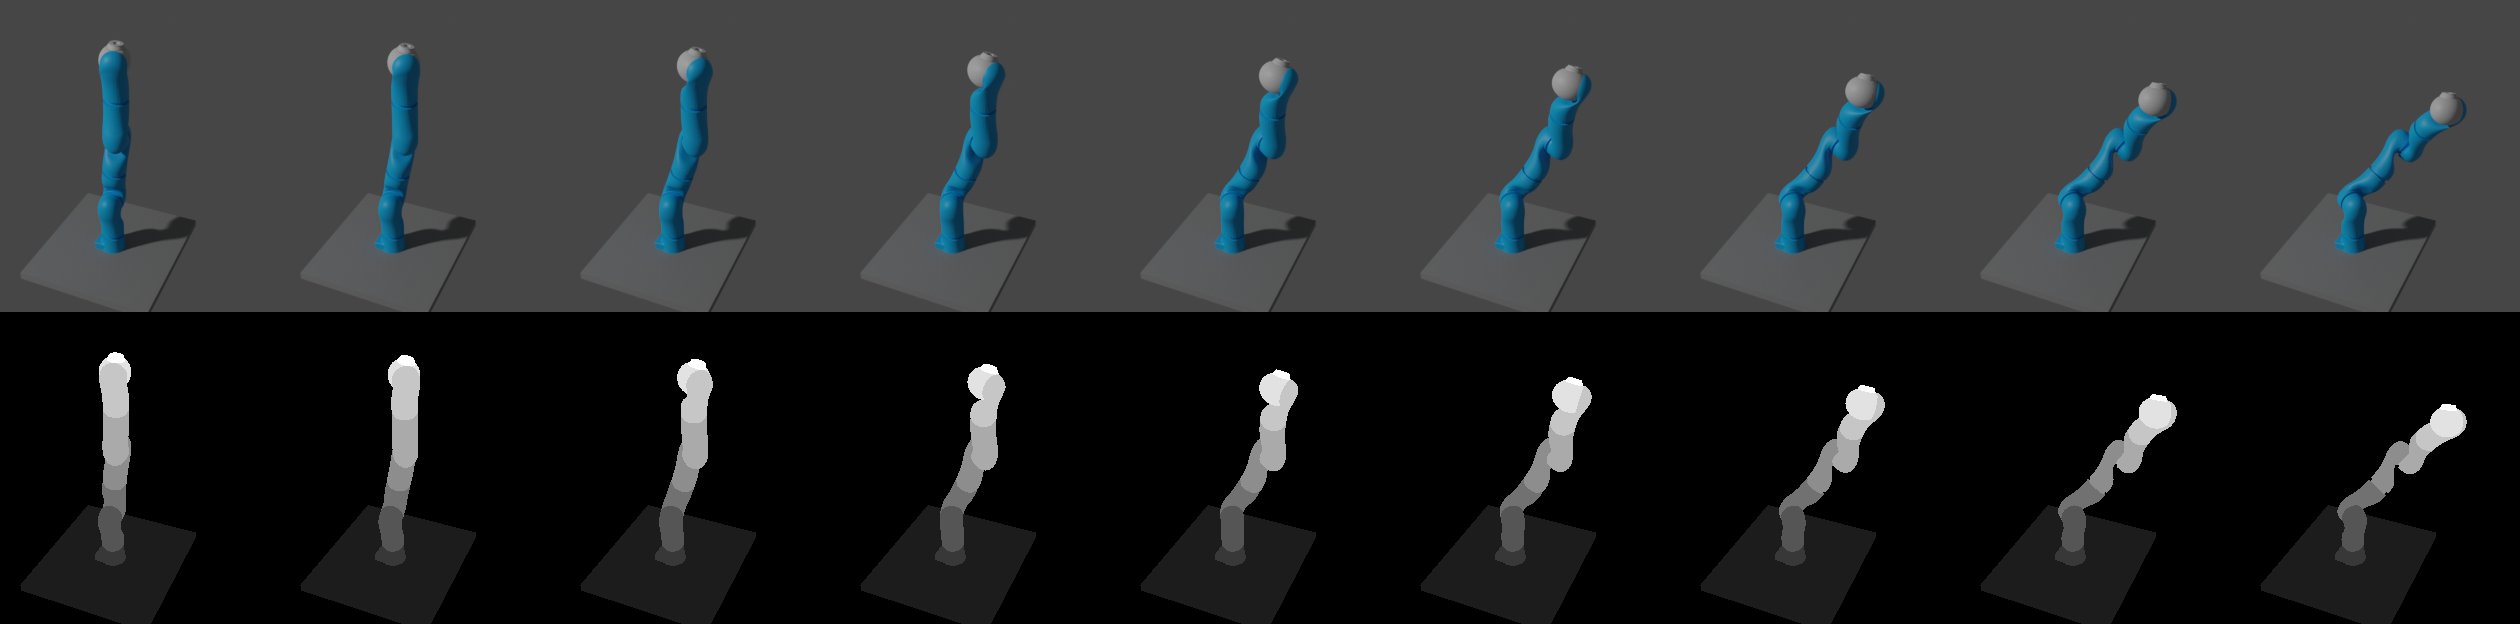
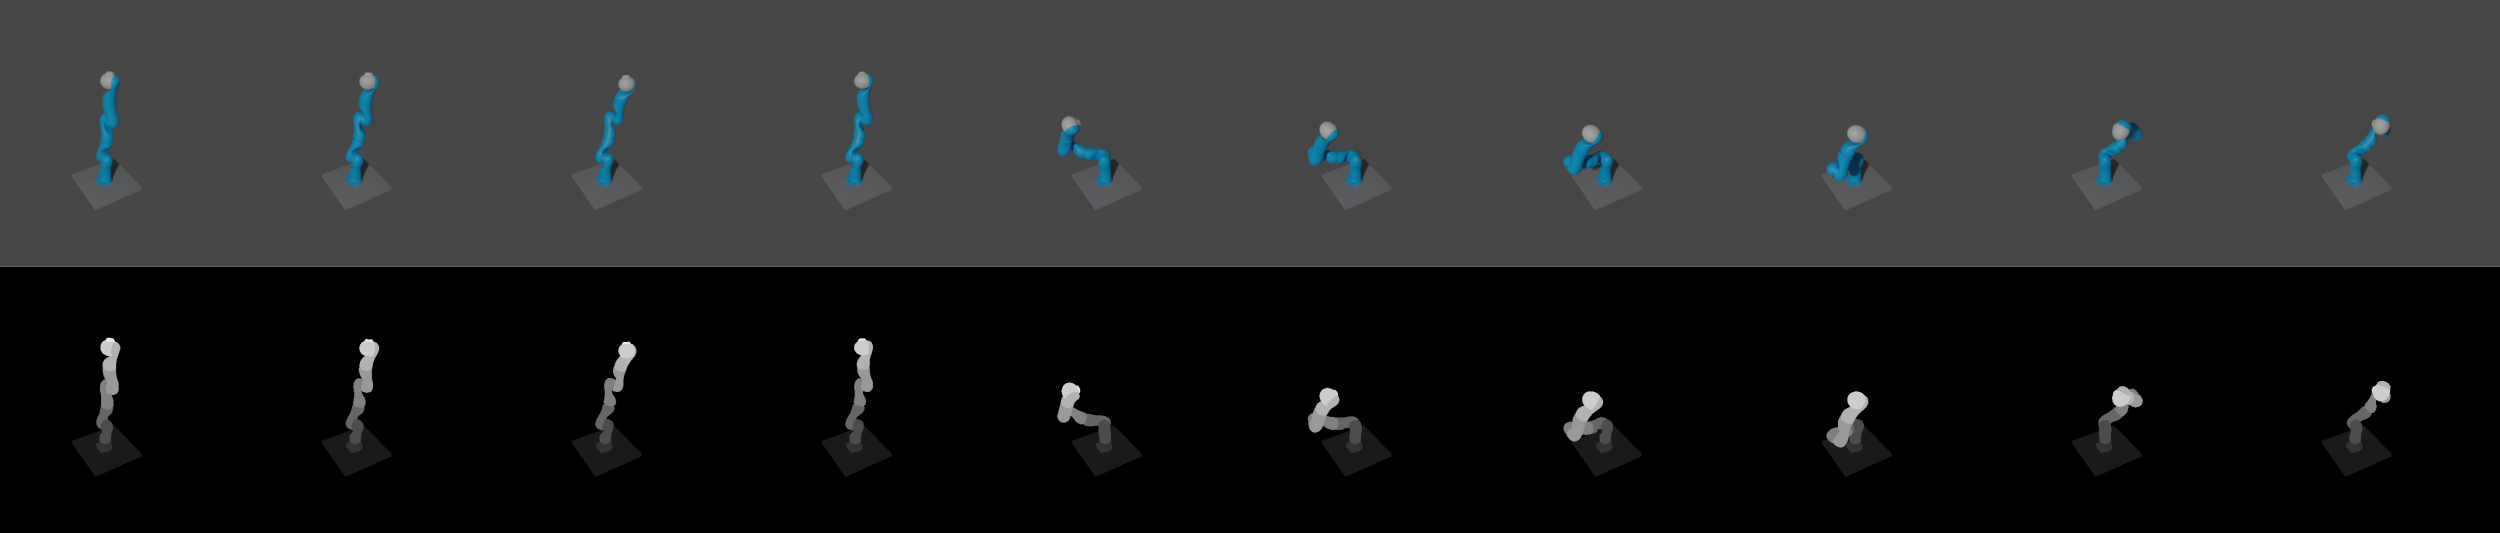
refactor (example): update urdf example

diff --git a/examples/advanced/urdf_loading_and_manipulation/main.py b/examples/advanced/urdf_loading_and_manipulation/main.py
@@ -14,13 +14,32 @@ robot.hide_irrelevant_objs()
 robot.remove_link_by_index(index=0)
 robot.set_ascending_category_ids()
 
-# rotate for some parts
-robot_matrix_world = []
-for frame in range(9):
-    for link in robot.links:
-        if link.joint_type == "revolute":
-            link.set_rotation_euler(rotation_euler=0.1, mode="relative", frame=frame)
-    robot_matrix_world.append(robot.get_all_local2world_mats())
+# rotate every joint for 0.1 radians relative to the previous position
+robot.set_rotation_euler_fk(link=None, rotation_euler=0.2, mode='relative', frame=0)
+robot.set_rotation_euler_fk(link=None, rotation_euler=0.2, mode='relative', frame=1)
+robot.set_rotation_euler_fk(link=None, rotation_euler=0.2, mode='relative', frame=2)
+
+# rotate the fourth joint to its original position
+robot.set_rotation_euler_fk(link=robot.links[4], rotation_euler=0., mode='absolute', frame=3)
+
+# for moving to a specified 6d pose, first set up an inverse kinematic link at the end-effector
+# as relative location we put a small offset to the end effector
+# this allows us to later make it rotate around a point which could be a gripper
+robot.create_ik_bone_controller(link=robot.links[-1], relative_location=[0., 0., 0.2])
+robot.set_location_ik(location=[0., 0., 0.8], frame=4)
+robot.set_rotation_euler_ik(rotation_euler=[-1.57, 1.57, 0.], mode='absolute', frame=4)
+
+# we can also check if the desired pose is reachable by the robot
+if robot.has_reached_ik_pose(location_error=0.01, rotation_error=0.01):
+    print("Robot has reached pose!")
+
+# rotate around the pose
+for i in range(5, 10):
+    robot.set_rotation_euler_ik(rotation_euler=[0., 0., 0.4], mode='relative', frame=i)
+
+# print current joint poses
+print("Current joint poses:", robot.get_all_local2world_mats())
+print("Current visual poses:", robot.get_all_visual_local2world_mats())
 
 # set a light source
 light = bproc.types.Light()
@@ -30,8 +49,8 @@ light.set_energy(energy=1000)
 
 # sample camera pose
 bproc.camera.set_intrinsics_from_blender_params(640, 480)
-location = [-1., 2., 2.]
-poi = bproc.object.compute_poi(robot.links[1].get_visuals())
+location = [1., 2., 2.]
+poi = bproc.object.compute_poi(robot.links[4].get_visuals())
 # Compute rotation based on vector going from location towards poi
 rotation_matrix = bproc.camera.rotation_from_forward_vec(poi - location, inplane_rot=3.14)
 # Add homog cam pose based on location and rotation
@@ -44,5 +63,4 @@ data = bproc.renderer.render()
 data.update(bproc.renderer.render_segmap(use_alpha_channel=True))
 
 # write the data to a .hdf5 container
-data['robot_matrix_world'] = robot_matrix_world
 bproc.writer.write_hdf5(args.output_dir, data)

diff --git a/examples/advanced/urdf_loading_and_manipulation/README.md b/examples/advanced/urdf_loading_and_manipulation/README.md
@@ -19,7 +19,7 @@ blenderproc run examples/advanced/urdf_loading_and_manipulation/main.py /path/to
 ```
 
 * `examples/advanced/urdf_loading_and_manipulation/main.py`: path to the python file with pipeline configuration.
-* `/path/to/model.urdf`: path to a URDF robot model.
+* `/path/to/model.urdf`: path to a URDF robot definition file.
 * `examples/advanced/urdf_loading_and_manipulation/output`: path to the output directory.
 
 ## Visualization
@@ -40,9 +40,9 @@ python scripts/visHdf5Files.py examples/advanced/urdf_loading_and_manipulation/o
 robot = bproc.loader.load_robot(urdf_file=args.urdf_file)
 ```
 
-This will return a bproc.types.Robot instance.
+This will return a bproc.types.URDFObject instance.
 
-### Basic functions of the Robot class
+### Basic functions of the URDFObject class
 
 ```python
 robot.hide_irrelevant_objs()
@@ -50,34 +50,67 @@ robot.remove_link_by_index(index=0)
 robot.set_ascending_category_ids()
 ```
 
-The Robot class provides some basic functions which might come in handy. Here, we first hide all link, collision and inertial objects from rendering.
-Then, we remove the first link as this often represents a transformation from world to base frame.
-This automatically handles all respective parenting and transforms the child link to the current position.
+The URDFObject class provides some basic functions which might come in handy.
+Here, we first hide all link, collision and inertial objects from rendering.
+Then, we remove the first link as this often represents a basic plate where the robot stands on.
+This automatically handles all respective parenting and transforms the child link to the current position (though without changing the rotation!).
 Note that this would also allow us to shrink the robot by calling e.g. `robot.remove_link_by_index(5)` twice.
 Depending on the relative transformations between the links this might not automatically produce a realistic representation.
 Last but not least, we set ascending category ids to all links and their respective link objects.
 
-### Rotation of links
+### Rotation of links in forward kinematic mode
 
 ```python
-robot_matrix_world = []
-for frame in range(9):
-    for link in robot.links:
-        if link.joint_type == "revolute":
-            link.set_rotation_euler(rotation_euler=0.1, mode="relative", frame=frame)
-    robot_matrix_world.append(robot.get_all_local2world_mats())
+robot.set_rotation_euler_fk(link=None, rotation_euler=0.2, mode='relative', frame=0)
+robot.set_rotation_euler_fk(link=None, rotation_euler=0.2, mode='relative', frame=1)
+robot.set_rotation_euler_fk(link=None, rotation_euler=0.2, mode='relative', frame=2)
+
+robot.set_rotation_euler_fk(link=robot.links[4], rotation_euler=0., mode='absolute', frame=3)
 ```
 
-Here we relatively permute all revolute links of the robot by 0.1 radians per frame.
+Here we relatively permute all revolute links of the robot by 0.2 radians for three frames.
 Depending on the constraints from the urdf file the rotation is only applied on one axis.
-We additionally save the transformation matrices from each of the links to the world frame.
+Then, the fourth joint is rotated to its original position again.
 
 Note that since the robot class inherits from bpy.types.Entity, you can directly call `robot.set_location()` or
-`robot.set_rotation_euler()` - this would manipulate the whole robot at once.
+`robot.set_rotation_euler()` - this would manipulate the whole robot at once. Note that when manipulating links,
+use the appropriate suffix to declare the mode in which you want to manipulate - here `_fk` for forwards kinematic mode.
+
+### Moving in inverse kinematic mode
+
+```python
+robot.create_ik_bone_controller(link=robot.links[-1], relative_location=[0., 0., 0.2])
+robot.set_location_ik(location=[0., 0., 0.8], frame=4)
+robot.set_rotation_euler_ik(rotation_euler=[-1.57, 1.57, 0.], mode='absolute', frame=4)
+
+if robot.has_reached_ik_pose(location_error=0.01, rotation_error=0.01):
+    print("Robot has reached pose!")
+
+for i in range(5, 10):
+    robot.set_rotation_euler_ik(rotation_euler=[0., 0., 0.4], mode='relative', frame=i)
+```
+
+First, we need to set up a control bone that controls the motion in inverse kinematics mode. Here, the bone is set to
+control the end effector of the robot, but you could set it to any other joint as well.
+We further set location and rotation in inverse kinematics mode (note the suffix `_ik`).
+
+Then, we check if the robot was able to reach the desired pose.
+
+Last but not least, we perform a relative rotation around the current point of interest.
+
+### Accessing joint poses and other poses
+
+```python
+print("Current joint poses:", robot.get_all_local2world_mats())
+print("Current visual poses:", robot.get_all_visual_local2world_mats())
+```
+
+The URDFObject interface allows easy access on the poses of the joints themselves, but also on e.g. the poses of the
+meshes. Here we simply print them after the last motion.
 
 ## Preparing URDF files
 
-This example relies on [urdfpy](https://pypi.org/project/urdfpy/0.0.22/).
+This example relies on [urdfpy](https://github.com/wboerdijk/urdfpy).
 Currently (v0.0.22) you might need to format your `model.urdf` file:
 - Mesh file paths can be saved with a prefix `mesh://` before the relative file name. Please replace this with the absolute (or relative) file name to the mesh.
 - Instead of
